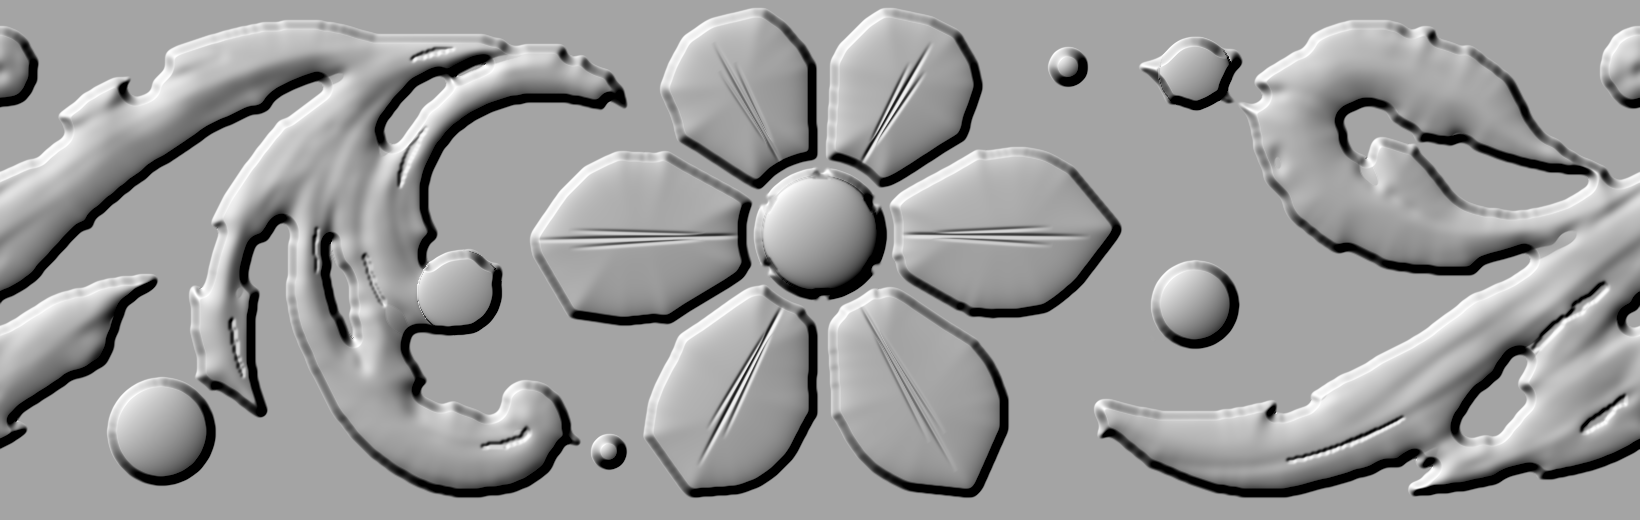
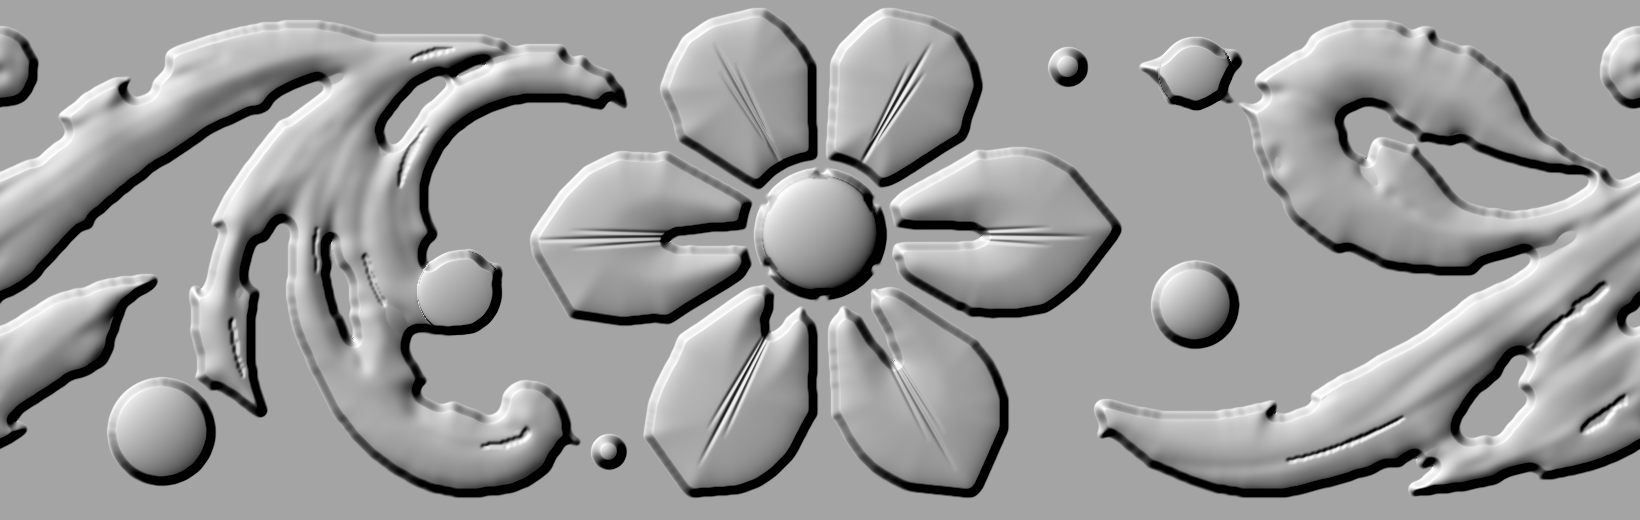
v2 step 15: ref rib slits on the 4 side/lower petals (measured width profiles, pointed ends; SLIT/SLW knobs). Flower IoU .9254->.9362, EXTRA 6472->3299
Claude-Session: s81

Changed region(s): [[0.4354, 0.5538, 0.5598, 0.7385], [0.5287, 0.3692, 0.622, 0.5231], [0.3732, 0.4, 0.4665, 0.5538]]

diff --git a/tools/v2/make_map_v2.py b/tools/v2/make_map_v2.py
@@ -66,6 +66,16 @@ _B2 = sg(sdf_of(B), E('BSG', 2.5)) > 0
 B = np.where((_r > 55) & (_r < 130), _B2, B)
 _gd = np.min([np.abs((_a - g + 180) % 360 - 180) for g in FGAP], axis=0)   # re-cut the 6 radial petal gaps (smoothing can close them)
 B = B & ~((_r * np.sin(np.radians(np.clip(_gd, 0, 90))) < _gwr) & (_r > RB) & (_r < E('GR1', 250)))
+# s82 rib slits: the ref's 4 side/lower petals (axes FAX[0,1,2,5]) have a dark rib channel (measured full width px by r, centre offset deg): flare at the bead, ~12-14 px line, pointed end. Cut as tapered slits (SLIT=0 disables). top two petals have none.
+SLITS = {0: (-0.4, [(74, 30), (82, 24), (90, 12), (120, 11), (130, 5), (140, 4), (148, 0)]),
+         1: (-0.8, [(74, 28), (82, 22), (90, 14), (100, 13), (106, 6), (112, 0)]),
+         2: (-1.5, [(74, 16), (90, 14), (110, 14), (120, 12), (130, 10), (142, 10), (152, 0)]),
+         5: (0.3, [(74, 16), (90, 12), (130, 12), (142, 10), (152, 10), (162, 0)])}
+if E('SLIT', 1):
+    for _i, (_off, _pr) in SLITS.items():
+        _pr = np.array(_pr, float); _wr = np.interp(_r, _pr[:, 0], _pr[:, 1], right=0) * E('SLW', 1.0)
+        _dth = np.abs((_a - (FAX[_i] + _off) + 180) % 360 - 180)
+        B = B & ~((_r * np.sin(np.radians(np.clip(_dth, 0, 90))) < _wr / 2) & (_dth < 40) & (_r >= RB - 4))
 _l2, _n2 = ndi.label(B); _a2 = np.bincount(_l2.ravel(), minlength=_n2 + 1); B = np.isin(_l2, [i for i in range(1, _n2 + 1) if _a2[i] >= 150])   # drop slivers left by the gap cut
 # s79 local corner round: the top-right petal's rim meets its gap line in a tiny hook at map (820,72); SDF-smooth B in a soft window (NCX,NCY,NCR) so only that corner rounds
 _nx, _ny = np.meshgrid(np.arange(TW), np.arange(TH)); _nd = np.hypot(_nx - E('NCX', 821), _ny - E('NCY', 72)); _nw = 1 - np.clip((_nd - E('NCR', 14)) / 8, 0, 1)
